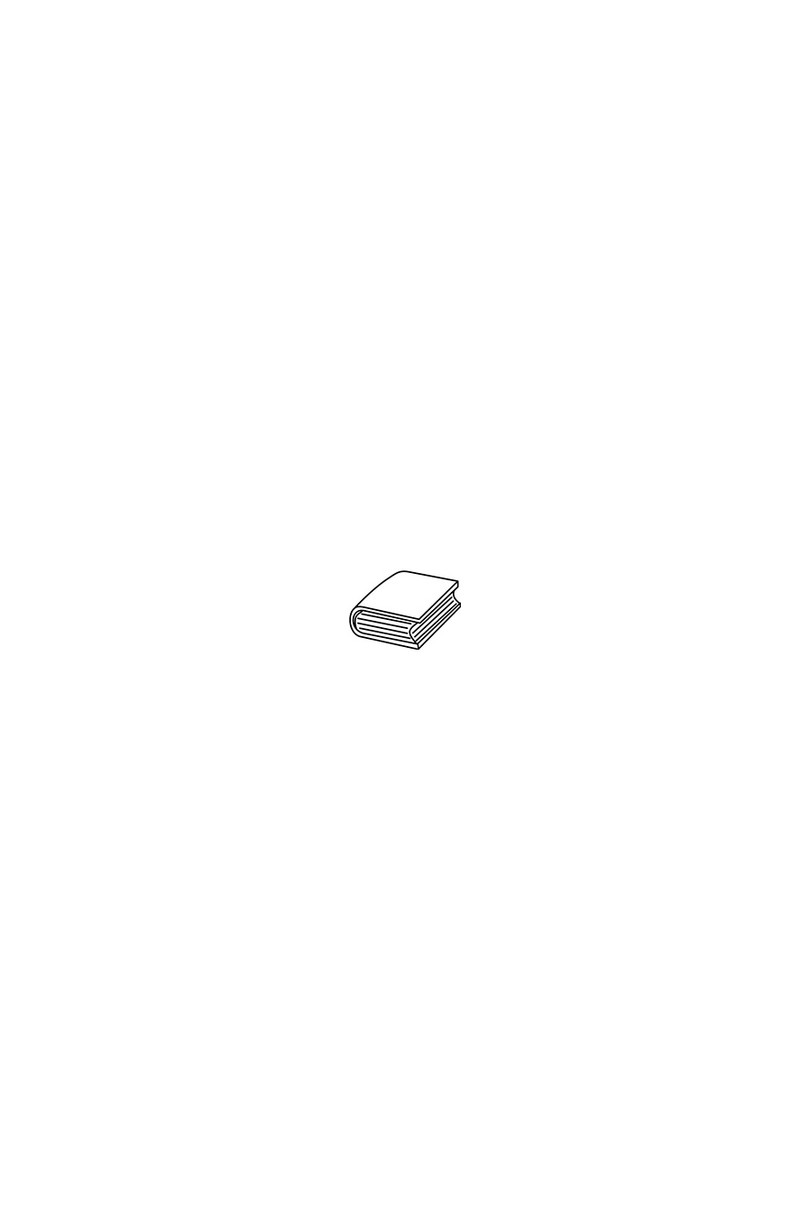
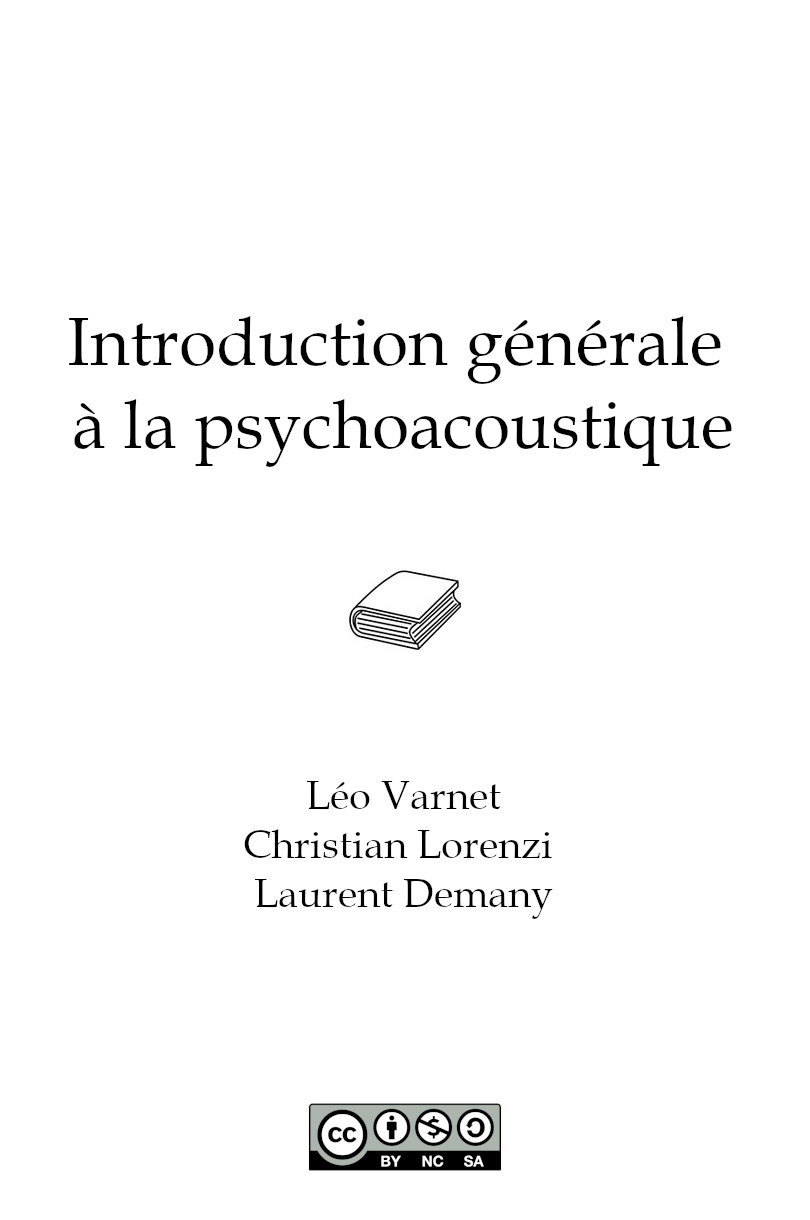
Include a cover

diff --git a/psychoacoustique/index.md b/psychoacoustique/index.md
@@ -12,6 +12,9 @@ style: cover
 
 Ce manuel a pour vocation de présenter une vue globale de la psychoacoustique, la science qui explore la manière dont le système auditif humain perçoit et interprète les sons qui nous entourent. Il s'adresse aux étudiant·e·s en psychologie, ingénieur·e·s du son, musicien·ne·s ou simplement à toute personne passionnée par le monde de l'audio. Dans les deux premiers chapitres, nous présenterons [les bases de la méthodologie psychophysique](01.html) ainsi que son cadre mathématique, [la théorie de la détection du signal](02.html). Au moyen de ces outils, nous étudierons les mécanismes qui régissent notre perception de caractéristiques simples des sons : l'intensité, la hauteur tonale, le timbre, et la localisation. Ceci nous permettra ensuite de comprendre comment notre cerveau sépare et organise les sons que nous entendons en sources sonores distinctes, un processus appelé Analyse de Scènes Auditives. Dans un second temps, nous nous intéresserons à un type de stimuli sonores particulier, extrêmement utile pour les humains : les sons de parole. Nous verrons comment les phonèmes, unités de base du langage oral, sont décodés par le cerveau, avant de nous pencher sur le traitement d'unités plus longues tels que les mots et les phrases.
 
+Cet ouvrage est publié sous une licence CC-BY-NC-SA. 
+{% include image file="Cc-by-nc-sa-320.png" %}
+
 **Sommaire**
 
 1. [Les bases de la méthodologie psychophysique](01.html)
